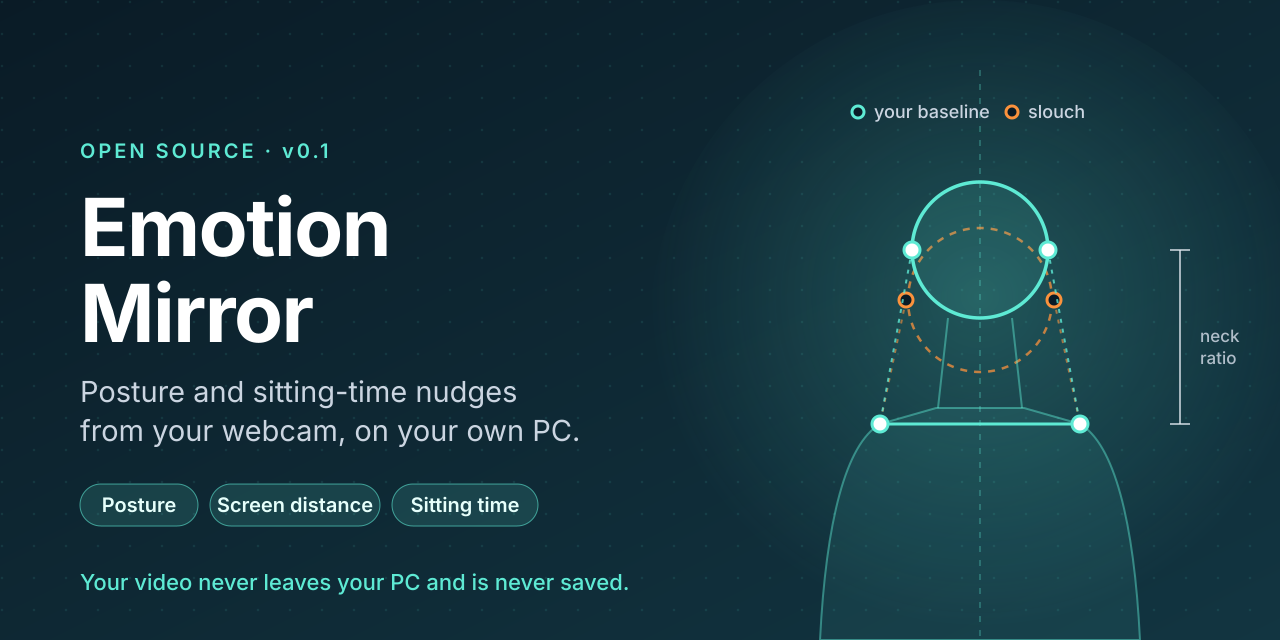
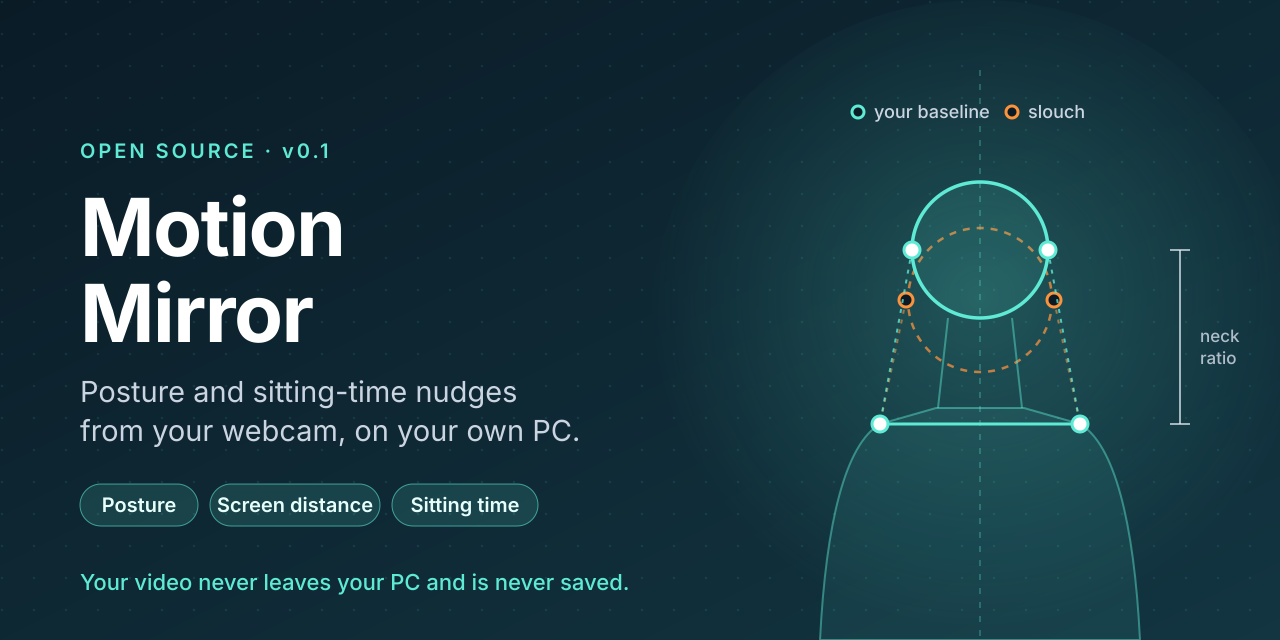
Rename project from Emotion Mirror to Motion Mirror
- Package src/emotion_mirror -> src/motion_mirror, CLI emotion-mirror -> motion-mirror
- Local data dir ~/.emotion-mirror -> ~/.motion-mirror, env var EMOTION_MIRROR_HOME -> MOTION_MIRROR_HOME
- README (en/es), CLAUDE.md, default rules and notification app name updated; clone/download URLs point to vladt2024/motion-mirror
- Banner: docs/banner.svg source updated, banner.png re-rendered, banner.gif title patched in all 72 frames (animation unchanged)

Claude-Session: https://claude.ai/code/session_01NRLuAm3Udq49rMenKRJYHW

Changed region(s): [[0.0625, 0.3125, 0.3125, 0.4062]]

diff --git a/src/motion_mirror/cli.py b/src/motion_mirror/cli.py
@@ -85,7 +85,7 @@ def cmd_run(args: argparse.Namespace) -> int:
     notifier = Notifier()
     perception = Perception()
 
-    print("Emotion Mirror is running. Press Ctrl+C to stop. Video is processed in memory and never saved.")
+    print("Motion Mirror is running. Press Ctrl+C to stop. Video is processed in memory and never saved.")
     last_report = 0.0
     try:
         with Camera(args.camera) as camera:
@@ -118,7 +118,7 @@ def cmd_default_rules(_: argparse.Namespace) -> int:
 
 
 def build_parser() -> argparse.ArgumentParser:
-    parser = argparse.ArgumentParser(prog="emotion-mirror", description="Local-first wellbeing copilot.")
+    parser = argparse.ArgumentParser(prog="motion-mirror", description="Local-first wellbeing copilot.")
     parser.add_argument("--version", action="version", version=f"%(prog)s {__version__}")
     sub = parser.add_subparsers(dest="command", required=True)
 

diff --git a/src/motion_mirror/rules.py b/src/motion_mirror/rules.py
@@ -50,7 +50,7 @@ class Alert:
 
 
 def default_rules_text() -> str:
-    return resources.files("emotion_mirror").joinpath("default_rules.yaml").read_text("utf-8")
+    return resources.files("motion_mirror").joinpath("default_rules.yaml").read_text("utf-8")
 
 
 def load_rules(path: Path | None = None) -> tuple[list[Rule], Settings]:
@@ -98,7 +98,7 @@ def parse_rules(data: dict) -> tuple[list[Rule], Settings]:
                 below=None if below is None else float(below),
                 for_seconds=for_seconds,
                 cooldown_minutes=cooldown,
-                title=str(raw.get("title", "Emotion Mirror")),
+                title=str(raw.get("title", "Motion Mirror")),
                 messages=tuple(messages),
             )
         )

diff --git a/src/motion_mirror/paths.py b/src/motion_mirror/paths.py
@@ -1,4 +1,4 @@
-"""Where Emotion Mirror keeps its (local) files. Override with EMOTION_MIRROR_HOME."""
+"""Where Motion Mirror keeps its (local) files. Override with MOTION_MIRROR_HOME."""
 
 from __future__ import annotations
 
@@ -7,8 +7,8 @@ from pathlib import Path
 
 
 def home_dir() -> Path:
-    override = os.environ.get("EMOTION_MIRROR_HOME")
-    return Path(override) if override else Path.home() / ".emotion-mirror"
+    override = os.environ.get("MOTION_MIRROR_HOME")
+    return Path(override) if override else Path.home() / ".motion-mirror"
 
 
 def models_dir() -> Path:

diff --git a/src/motion_mirror/calibration.py b/src/motion_mirror/calibration.py
@@ -69,7 +69,7 @@ def save_baseline(baseline: Baseline, path: Path | None = None) -> Path:
 def load_baseline(path: Path | None = None) -> Baseline:
     path = path or baseline_path()
     if not path.exists():
-        raise CalibrationError(f"No calibration found at {path}. Run `emotion-mirror calibrate`.")
+        raise CalibrationError(f"No calibration found at {path}. Run `motion-mirror calibrate`.")
     try:
         data = json.loads(path.read_text(encoding="utf-8"))
         return Baseline(

diff --git a/src/motion_mirror/perception.py b/src/motion_mirror/perception.py
@@ -39,7 +39,7 @@ class Perception:
         for p in (face_path, pose_path):
             if not p.exists():
                 raise ModelsMissingError(
-                    f"Missing model file {p}. Run `emotion-mirror download-models` first."
+                    f"Missing model file {p}. Run `motion-mirror download-models` first."
                 )
         self._face = vision.FaceLandmarker.create_from_options(
             vision.FaceLandmarkerOptions(

diff --git a/tests/test_calibration.py b/tests/test_calibration.py
@@ -1,6 +1,6 @@
 import pytest
 
-from emotion_mirror.calibration import (
+from motion_mirror.calibration import (
     MIN_SAMPLES,
     Baseline,
     CalibrationError,
@@ -8,7 +8,7 @@ from emotion_mirror.calibration import (
     load_baseline,
     save_baseline,
 )
-from emotion_mirror.signals import Signals
+from motion_mirror.signals import Signals
 
 
 def frame(neck=0.5, tilt=1.0, face=0.2):

diff --git a/tests/test_aggregator.py b/tests/test_aggregator.py
@@ -1,8 +1,8 @@
 import pytest
 
-from emotion_mirror.aggregator import Aggregator
-from emotion_mirror.calibration import Baseline
-from emotion_mirror.signals import Signals
+from motion_mirror.aggregator import Aggregator
+from motion_mirror.calibration import Baseline
+from motion_mirror.signals import Signals
 
 BASE = Baseline(neck_ratio=0.5, shoulder_tilt=2.0, face_width=0.2)
 

diff --git a/tests/test_pipeline.py b/tests/test_pipeline.py
@@ -1,8 +1,8 @@
 import pytest
 
-from emotion_mirror.camera import CameraError
-from emotion_mirror.pipeline import MAX_CONSECUTIVE_FAILURES, iter_signals
-from emotion_mirror.signals import Signals
+from motion_mirror.camera import CameraError
+from motion_mirror.pipeline import MAX_CONSECUTIVE_FAILURES, iter_signals
+from motion_mirror.signals import Signals
 
 
 class FakeCamera:

diff --git a/src/motion_mirror/notifier.py b/src/motion_mirror/notifier.py
@@ -9,7 +9,7 @@ log = logging.getLogger(__name__)
 
 
 class Notifier:
-    def __init__(self, app_name: str = "Emotion Mirror"):
+    def __init__(self, app_name: str = "Motion Mirror"):
         self._loop: asyncio.AbstractEventLoop | None = None
         self._notifier = None
         try:

diff --git a/tests/test_rules.py b/tests/test_rules.py
@@ -2,7 +2,7 @@ import random
 
 import pytest
 
-from emotion_mirror.rules import RuleEngine, RulesError, Settings, load_rules, parse_rules
+from motion_mirror.rules import RuleEngine, RulesError, Settings, load_rules, parse_rules
 
 
 def make_engine(max_per_hour=4):

diff --git a/src/motion_mirror/__init__.py b/src/motion_mirror/__init__.py
@@ -1,0 +1,3 @@
+"""Motion Mirror: local-first wellbeing copilot for people who work at a computer."""
+
+__version__ = "0.1.0"
